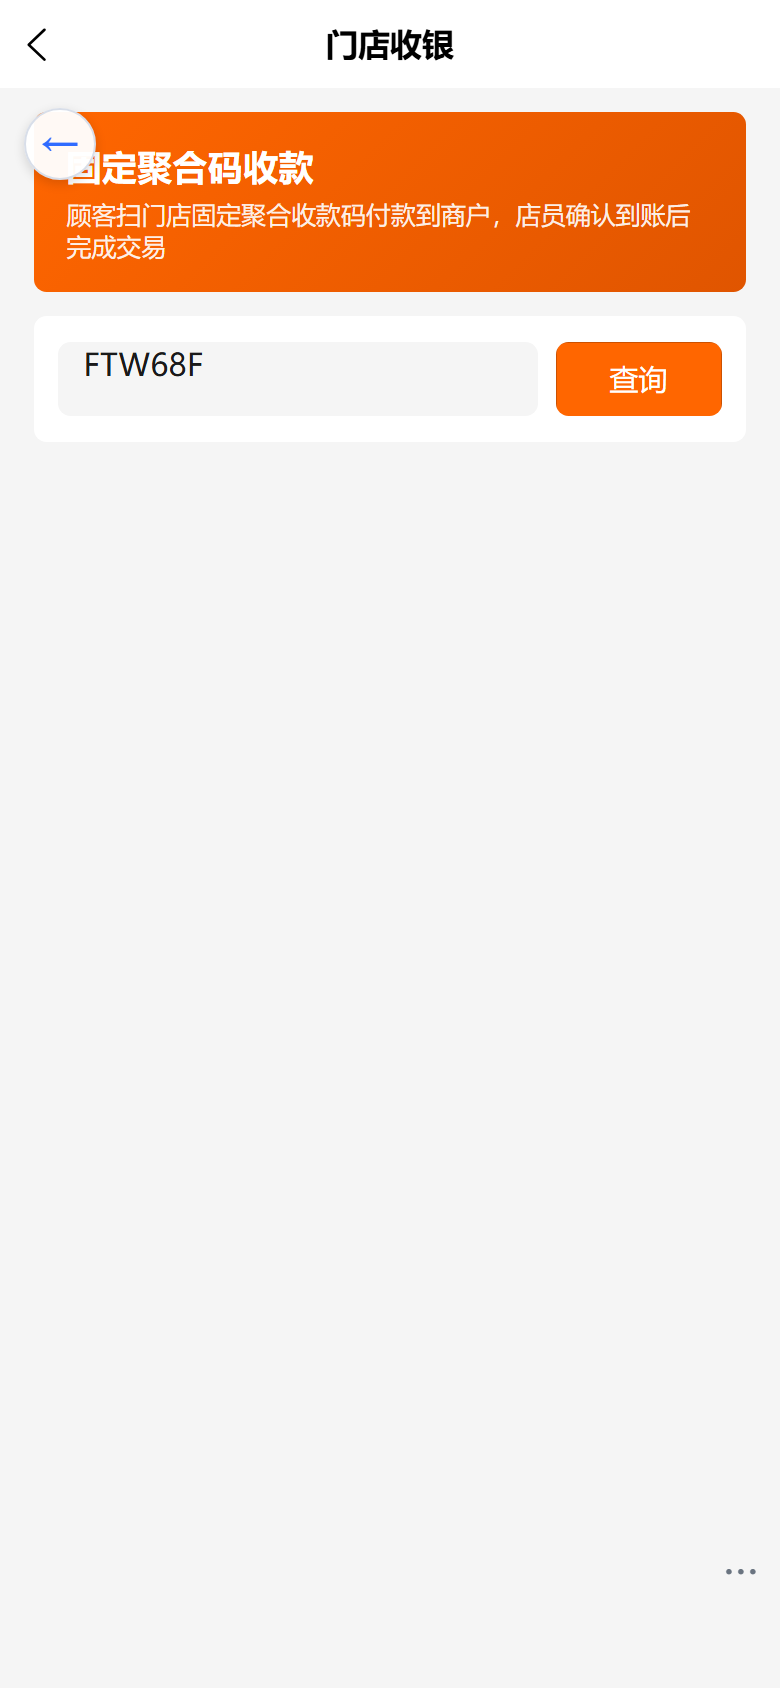
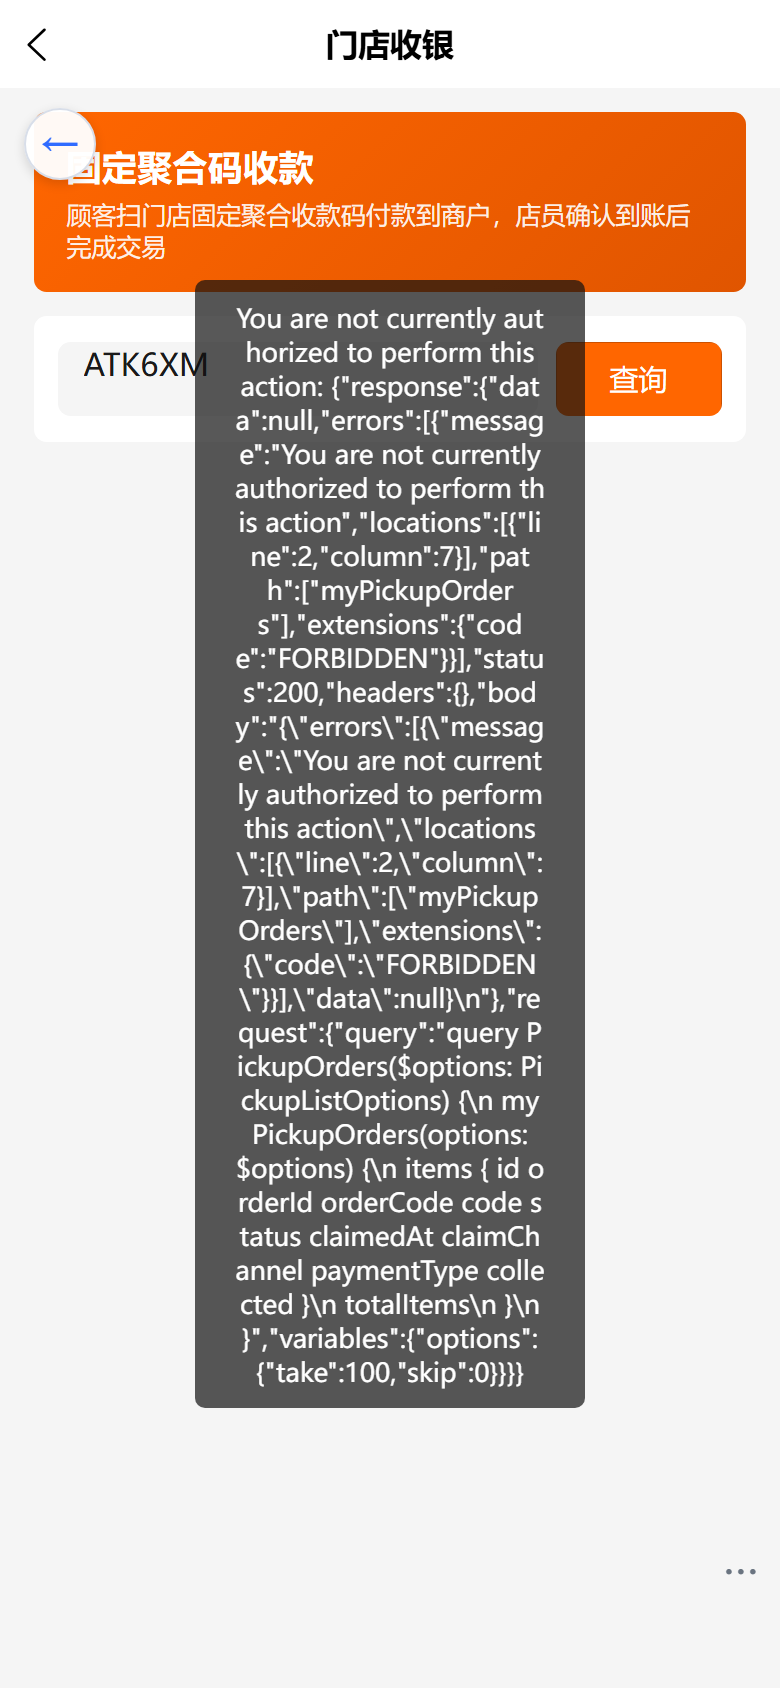
docs(manual): POS 收款二次确认 modal 截图

diff --git a/web-admin/src/static/manual/index.html b/web-admin/src/static/manual/index.html
@@ -759,8 +759,8 @@ var CHAPTERS = [
 <p>选择收款方式（固定聚合码收款等）并确认收款；收款后订单状态与台账同步更新。</p>
 <div class="note"><b>收款即台账：</b>POS 确认收款后，「收款台账」中出现对应记录，核销人即收款人，可直接导出对账。</div>
 <div class="shot-box"><img class="img" src="shots/op30_pos.png" alt="POS-门店收银"><div class="imgcap">图 P1 · 门店收银</div>
-<img class="img" src="shots/g2_f5_pos_confirm.png" alt="POS-核销码查询入口">
-<div class="imgcap">图 P2 · 门店收银查询（输入核销码 / 订单号查询后点「确认收款」完成收款；当前无待核销自提单时显示查询入口空态）</div>`},
+<img class="img" src="shots/g2_f5_pos_confirm.png" alt="POS-真实核销码查询报权限不足">
+<div class="imgcap">图 P2 · 门店收银（输入真实核销码 ATK6XM 查询；当前账号对 POS 数据源 <code>myPickupOrders</code> 权限不足 FORBIDDEN，弹不出「确认收款」modal，如实呈现错误提示）</div>`},
 {book:'op', id:'op-31', title:'售后处理流程', html:`
 <p class="lead">买家发起的退款 / 退货 / 换货申请统一在「<mark class="mark">售后处理</mark>」集中处理。</p>
 <h3>入口与筛选</h3>
